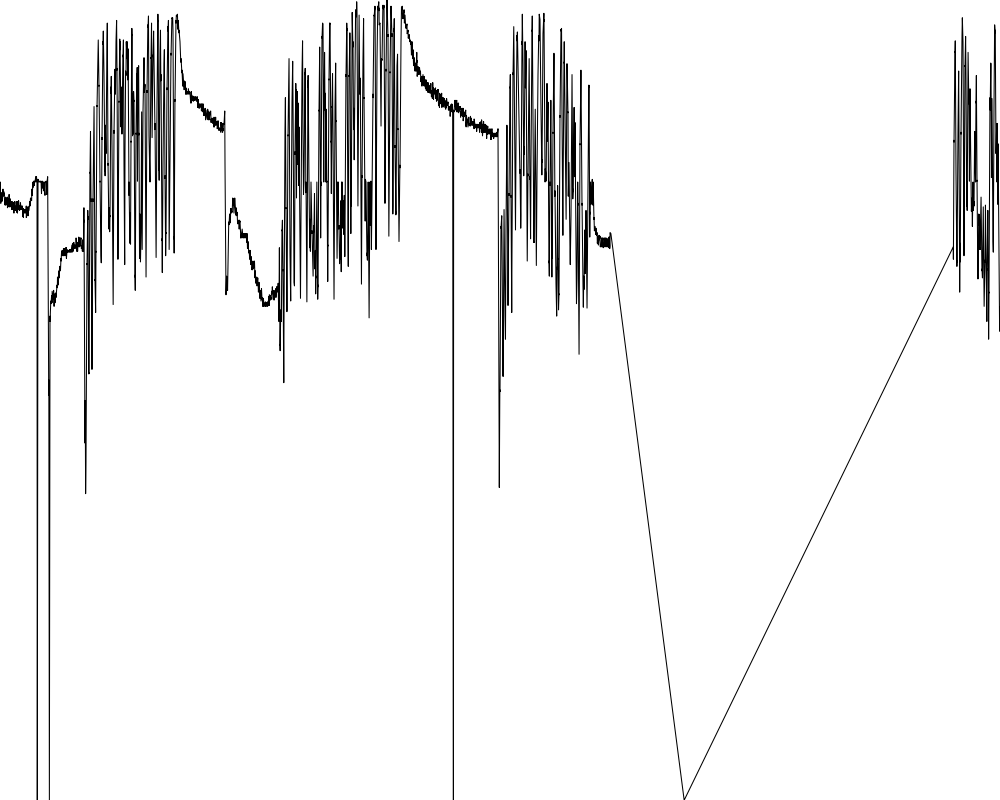
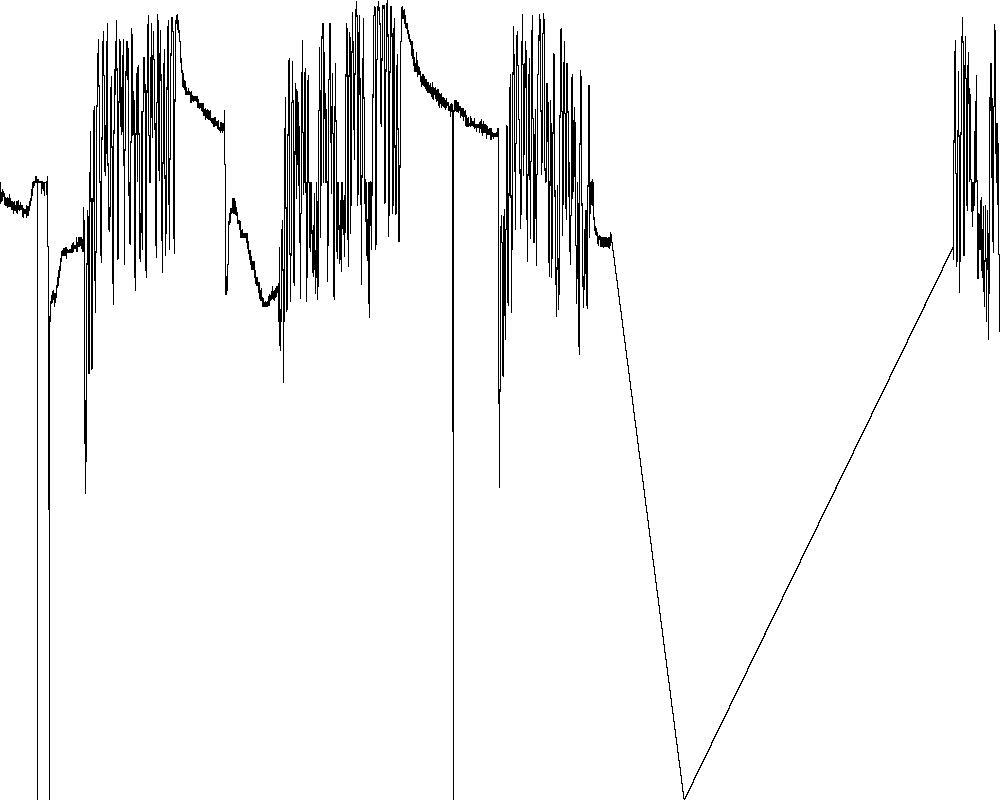
add

diff --git a/python/matplotlib/disableAntialias.py b/python/matplotlib/disableAntialias.py
@@ -71,7 +71,7 @@ def myplot(csvData, width, height, dpi):
     print('t_min=',t_min)
     print('t_max_temp=',t_max_temp)
     print('t_max=',t_max)
-    plt.plot(t,v,'k',linewidth=1,antialiased=False)
+    plt.plot(t,v,'k',linewidth=0.01,antialiased=False)
     plt.xlim(t_min, t_max)
     plt.ylim(v_min, v_max)
     plt.savefig(csvData+'.png')
